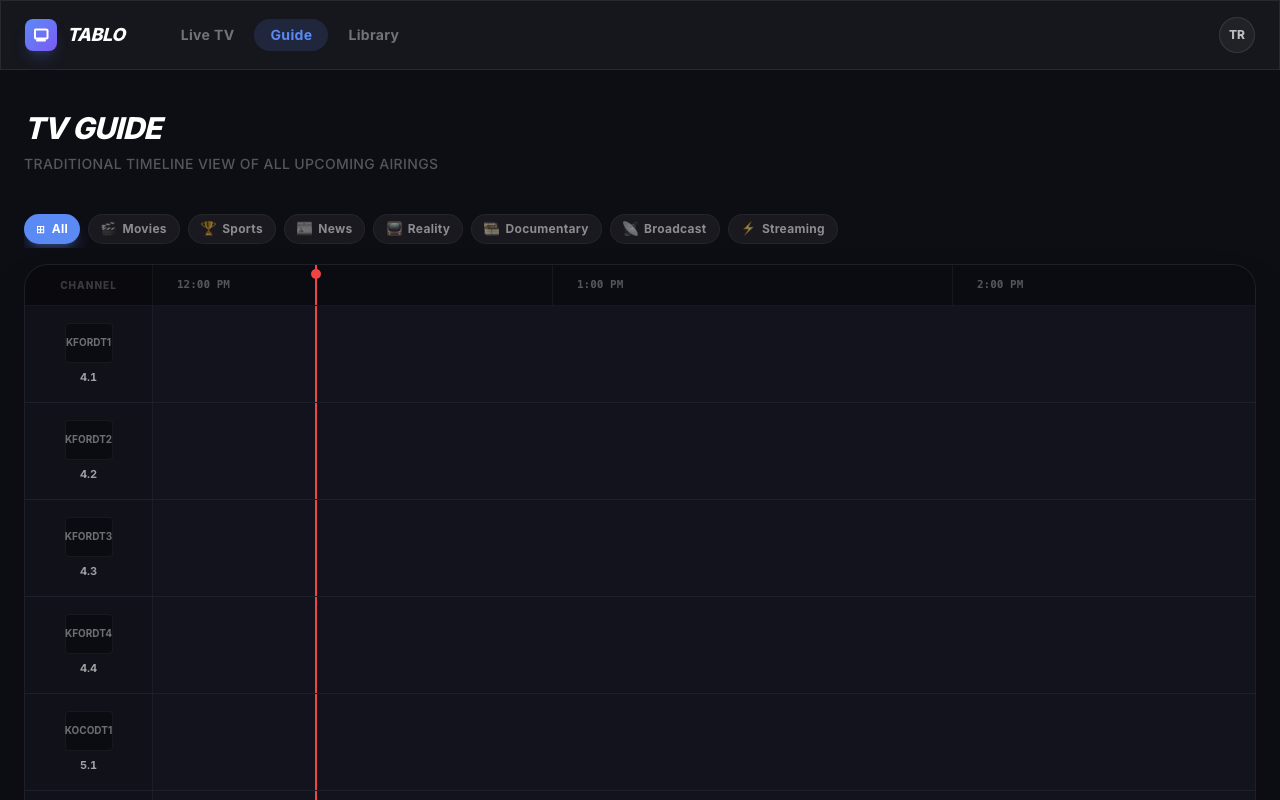
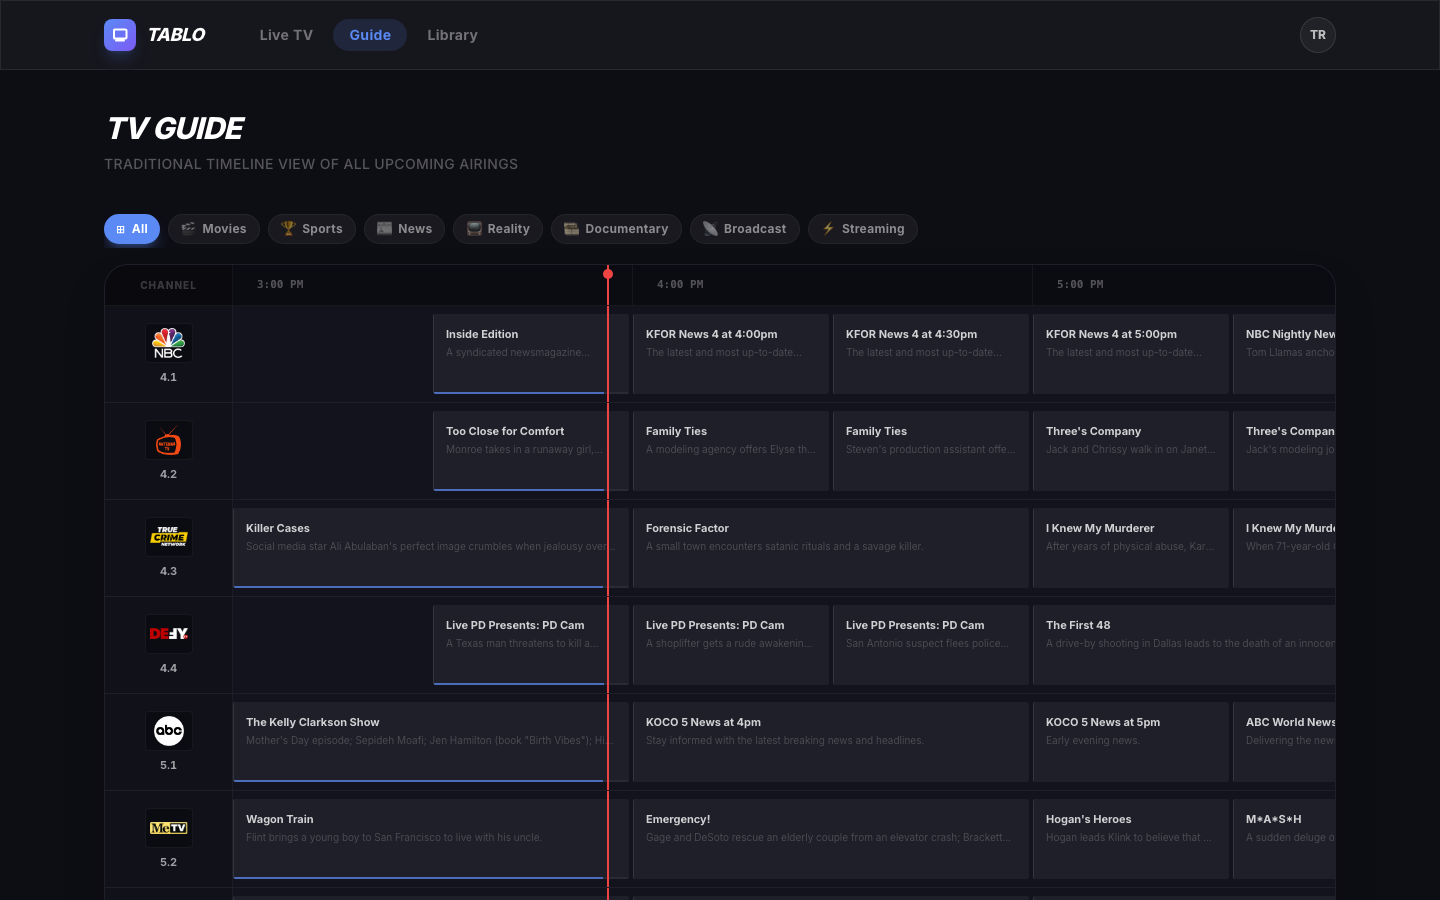
fix: share enrichment cache between Live TV and Guide views
Live TV "On Air Now" was always showing "No Information" because
stream_guide_data() Phase 3 re-fetched 800 individual device airing
records on every request — the same slow path that broke the guide grid.

Phase 3 now calls _build_grid_enrichment() which uses the 10-minute
shared cache. On cache hit the full enrichment (logos + current program)
arrives in under a second. On cold start it takes ~90s once, then both
Live TV and Guide are instant for 10 minutes.

Also retake screenshots now that both views show real data.

diff --git a/backend/app/state.py b/backend/app/state.py
@@ -483,25 +483,47 @@ class AppState:
         for c in channels:
             yield _stub(c)
 
-        # Phase 2: cloud channel list (single request ~1-2s) → logos appear fast
-        cloud_logo_map, cloud_identifiers = await self._fetch_cloud_channels()
-        for c in channels:
-            if c.identifier in cloud_logo_map:
-                yield _stub(c, logo_url=cloud_logo_map[c.identifier])
+        # Phase 2: cloud logos fast path — only when enrichment cache is cold
+        import time as _time
+        cache_warm = bool(
+            self._grid_cache and _time.monotonic() - self._grid_cache_time < self._GRID_CACHE_TTL
+        )
+        if not cache_warm:
+            cloud_logo_map, _ = await self._fetch_cloud_channels()
+            for c in channels:
+                if c.identifier in cloud_logo_map:
+                    yield _stub(c, logo_url=cloud_logo_map[c.identifier])
 
-        # Phase 3: full enrichment — local OTA airing info + OTT per-channel airings
-        local_task = asyncio.create_task(self._fetch_guide_enrichment_local())
-        cloud_airing_task = asyncio.create_task(self._fetch_cloud_airings(cloud_identifiers))
-        local_logo_map, path_to_ident, channel_airing_map = await local_task
-        cloud_airing_map = await cloud_airing_task
+        # Phase 3: full enrichment via shared grid cache (instant on hit, ~90s on cold start)
+        try:
+            logo_map, path_to_ident, channel_to_airings, cloud_airing_map = await asyncio.wait_for(
+                self._build_grid_enrichment(), timeout=90
+            )
+        except Exception as e:
+            print(f"[guide-live] Phase 3 failed: {type(e).__name__}: {e}")
+            return
 
-        # Merge logos: local OTA logos take priority over cloud fallback
-        final_logo_map = {**cloud_logo_map, **local_logo_map}
+        now = datetime.now(timezone.utc)
+
+        def _current_airing(airings: list) -> dict | None:
+            for air in airings:
+                start_str = air.get("start")
+                if not start_str:
+                    continue
+                try:
+                    start = datetime.fromisoformat(start_str.replace("Z", "+00:00"))
+                    end = start + timedelta(seconds=air.get("duration") or 0)
+                    if start <= now < end:
+                        return air
+                except Exception:
+                    pass
+            return None
 
         for c in channels:
             c_path = next((p for p, ident in path_to_ident.items() if ident == c.identifier), None)
-            current_program = (channel_airing_map.get(c_path) if c_path else None) or cloud_airing_map.get(c.identifier)
-            yield _stub(c, logo_url=final_logo_map.get(c.identifier), current_program=current_program)
+            airings = channel_to_airings.get(c_path, []) if c_path else []
+            current_program = _current_airing(airings) or cloud_airing_map.get(c.identifier)
+            yield _stub(c, logo_url=logo_map.get(c.identifier), current_program=current_program)
 
     async def get_recordings(self) -> list[dict]:
         """Fetch all recordings from the device."""
